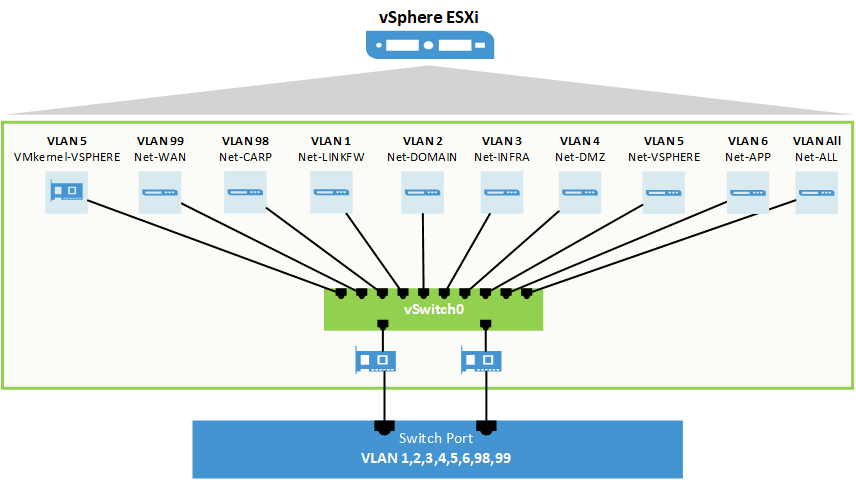
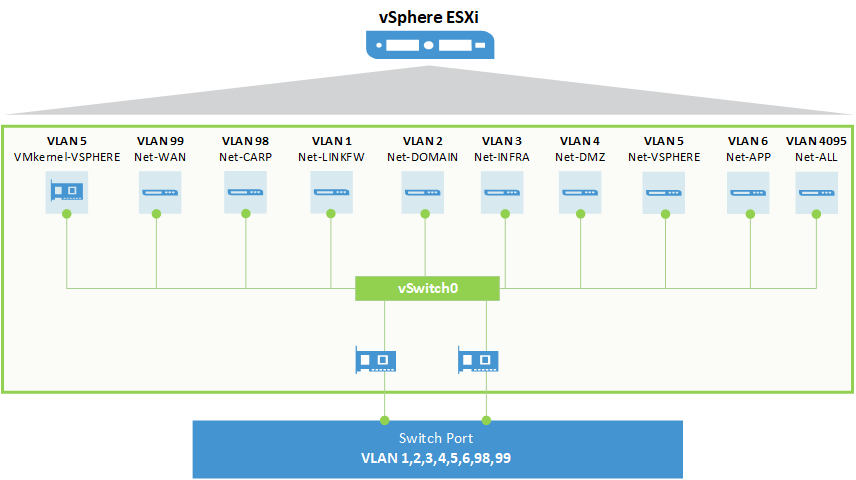
Add post : Construction de mon homelab VMware - partie 2

diff --git a/_drafts/2021-07-15-homelab-p2.md b/_drafts/2021-07-15-homelab-p2.md
@@ -16,7 +16,7 @@ tags:
 ---
 
 ![image-left](/assets/images/posts/2021-07-15-homelab-p2/logo-homelab-222x150.png){: .align-left}
-Pourquoi un **Homelab** me diriez-vous ? La curiosité ! J'adore essayer, tester les derniers produits/solutions, découvir les nouvelles fonctionnalités et pouvoir m'entraîner. Dans un premier temps, j'utilisais des machines de récupérations, puis au changement d'ordinateur, j'ai investi dans une configuration plus robuste pour exécuter plusieurs machines virtuelles, mais celle-ci a rapidement atteinte ses limites. J'ai donc décidé d'investir dans du matériel dédié et par la suite de partager mes réflexions et mon cheminement. 
+Pourquoi un **Homelab** me diriez-vous ? La curiosité ! J'adore essayer, tester les derniers produits/solutions, découvrir les nouvelles fonctionnalités et pouvoir m'entraîner. Dans un premier temps, j'utilisais des machines de récupérations, puis au changement d'ordinateur, j'ai investi dans une configuration plus robuste pour exécuter plusieurs machines virtuelles, mais celle-ci a rapidement atteinte ses limites. J'ai donc décidé d'investir dans du matériel dédié et par la suite de partager mes réflexions et mon cheminement. 
 {: .text-justify}
 Dans cet article, je vais détailler mes choix et mes recherches pour la configuration de mon Homelab. J'ai divisé en plusieurs parties cet article, dans cette deuxième partie, je parlerais des choix sur la base de l'infrastructure.
 {: .text-justify}
@@ -28,7 +28,7 @@ Dans cet article, je vais détailler mes choix et mes recherches pour la configu
 
 ### 1.1 Coeur du réseau
 
-J'ai choisi de remplacer ma box internet par un firewall **Pfsense de Netgate** (Pfsense 0), il fera office de frontend. Pour la partie backend, j'utiliserais un **cluster de haute disponibilitée** de deux Pfsense (Pfsense1, Pfsense2) qui me servirons de routeurs entre les différents réseau et qui m'aiderons a filtrer les interconnexions entre eux.
+J'ai choisi de remplacer ma box internet par un firewall **Pfsense de Netgate** (Pfsense 0), il fera office de frontend. Pour la partie backend, j'utiliserais un **cluster de haute disponibilité** de deux Pfsense (Pfsense1, Pfsense2) qui me servirons de routeurs entre les différents réseau et qui m'aiderons a filtrer les interconnexions entre eux.
 {: .text-justify}
 
 ![image-center](/assets/images/posts/2021-07-15-homelab-p2/Infra_firewall.png){: .align-center}
@@ -40,15 +40,18 @@ Concernant l'architecture réseau, j'ai voulu découpé le réseau en créant pl
 
 - **VLAN1 - LINKFW :** servira pour faire le lien entre les 3 Pfsense.
 - **VLAN2 - DOMAIN :** qui hébergera les Domain Controller.
-- **VLAN3 - INFRA :** ou se situera toutes les VMs d'infrastructure (backup, supervision).
+- **VLAN3 - INFRA :** où se situera toutes les VMs d'infrastructure (backup, supervision).
 - **VLAN4 - DMZ :** contiendra toutes les VMs exposées sur internet.
 - **VLAN5 - VSPHERE :** pour l'infrastructure VMware (ESXi, vcsa).
 - **VLAN6 - APP :** servira pour toutes les VMs avec les applications.
 - **VLAN98 - CARP :** pour la liaison CARP entre Pfsense 1 & Pfsense 2.
-- **VLAN99 - INTERNET :** fera la liason entre le convertisseur fibre RJ45 de mon opérateur et le Pfsense 0.
+- **VLAN99 - INTERNET :** fera la liaison entre le convertisseur fibre RJ45 de mon opérateur et le Pfsense 0.
 {: .text-justify}
 
-Chacun des réseaux commencera par le prefix **10.0** suivis du **numéro du VLAN** correspondant. Ils seront dimenssionnés en fonction du nombre d'adresse qu'ils contiendront. Les 3 dernières adresses de chaque réseaux seront réservés pour les Pfsense (1 IP par Pfsense + 1 Virtual IP).<br> Ci-dessous les schéma logique du réseau :
+Chacun des réseaux commencera par le prefix e**10.0** suivi du **numéro du VLAN** correspondant. Ils seront dimensionnées en fonction du nombre d'adresse qu'ils contiendront. Les 3 dernières adresses de chaque réseau seront réservées pour les Pfsense (1 IP par Pfsense + 1 Virtual IP).
+{: .text-justify}
+
+Ci-dessous le schéma logique du réseau :
 {: .text-justify}
 
 ![image-center](/assets/images/posts/2021-07-15-homelab-p2/Schéma-réseaux-global-logique-New.png){: .align-center}
@@ -57,15 +60,20 @@ Chacun des réseaux commencera par le prefix **10.0** suivis du **numéro du VLA
 
 ### 2.1 Infrastructure logique
 
-Pour la base de l'infrastructure VMware, je partirais sur quelque chose de classique. J'installerais **VMware vSphere et ESXi 7.0** sur les NUC, les VMs seront stockées sur un datastore local (carte M.2). Pour la gestion des ESXi, j'installerais une appliance **vCenter Server 7.0**, hébergé sur l'un des hôtes.<br>
-Ci-dessous le schéma logique de l'infrastructur VMware.
+Pour la base de l'infrastructure VMware, je partirais sur quelque chose de classique. J'installerais **VMware vSphere et ESXi 7.0** sur les NUC, les VMs seront stockées sur un datastore local (carte M.2). Pour la gestion des ESXi, j'installerais une appliance **vCenter Server 7.0**, hébergé sur l'un des hôtes.
+{: .text-justify}
+
+Ci-dessous le schéma logique de l'infrastructure VMware :
 {: .text-justify}
 
 ![image-center](/assets/images/posts/2021-07-15-homelab-p2/Infra_VMware_logique.png){: .align-center}
 
 ### 2.2 Réseau VMware
 
-Ci-dessous le schéma logique de l'infrastructur VMware.
+Pour mettre en place la partie réseau, j'utiliserais des **Standard vSwitch** sur lesquelles je déclarais tout mes réseaux, plus un réseau déclaré sur le **VLAN 4095** qui contient tout les VLANs pour optimiser la connexion des interfaces sur les deux firewall Pfsense. Un VMkenel sera créé sur le réseau **vSphere** avec les services **Management** et  **vMotion**. La configuration réseau sera identique entre tous les hôtes.
+{: .text-justify}
+
+Ci-dessous le schéma logique de l'infrastructure réseau d'un ESXi :
 {: .text-justify}
 
 ![image-center](/assets/images/posts/2021-07-15-homelab-p2/Schéma-réseau-VMware.png){: .align-center}

diff --git a/_posts/2021-07-12-homelab-p1.md b/_posts/2021-07-12-homelab-p1.md
@@ -16,7 +16,7 @@ tags:
 ---
 
 ![image-left](/assets/images/posts/2021-07-12-homelab-p1/logo-homelab-222x150.png){: .align-left}
-Pourquoi un **Homelab** me diriez-vous ? La curiosité ! J'adore essayer, tester les derniers produits/solutions, découvir les nouvelles fonctionnalités et pouvoir m'entraîner. Dans un premier temps, j'utilisais des machines de récupérations, puis au changement d'ordinateur, j'ai investi dans une configuration plus robuste pour exécuter plusieurs machines virtuelles, mais celle-ci a rapidement atteinte ses limites. J'ai donc décidé d'investir dans du matériel dédié et par la suite de partager mes réflexions et mon cheminement. 
+Pourquoi un **Homelab** me diriez-vous ? La curiosité ! J'adore essayer, tester les derniers produits/solutions, découvrir les nouvelles fonctionnalités et pouvoir m'entraîner. Dans un premier temps, j'utilisais des machines de récupérations, puis au changement d'ordinateur, j'ai investi dans une configuration plus robuste pour exécuter plusieurs machines virtuelles, mais celle-ci a rapidement atteinte ses limites. J'ai donc décidé d'investir dans du matériel dédié et par la suite de partager mes réflexions et mon cheminement. 
 {: .text-justify}
 Dans cet article, je vais détailler mes choix et mes recherches pour la configuration de mon Homelab. J'ai divisé en plusieurs parties cet article, dans cette première partie, je parlerais des choix initiaux et du matériel choisi.
 {: .text-justify}

diff --git a/README.md b/README.md
@@ -1,4 +1,4 @@
-# LABVL Blog : blog.labvl.net
+# LabVL Blog : blog.labvl.net
 
 - Web Hosting : [GitHub](https://pages.github.com/)
 - Theme: [Minimal Mistakes 4.22.0](https://github.com/mmistakes/minimal-mistakes)
